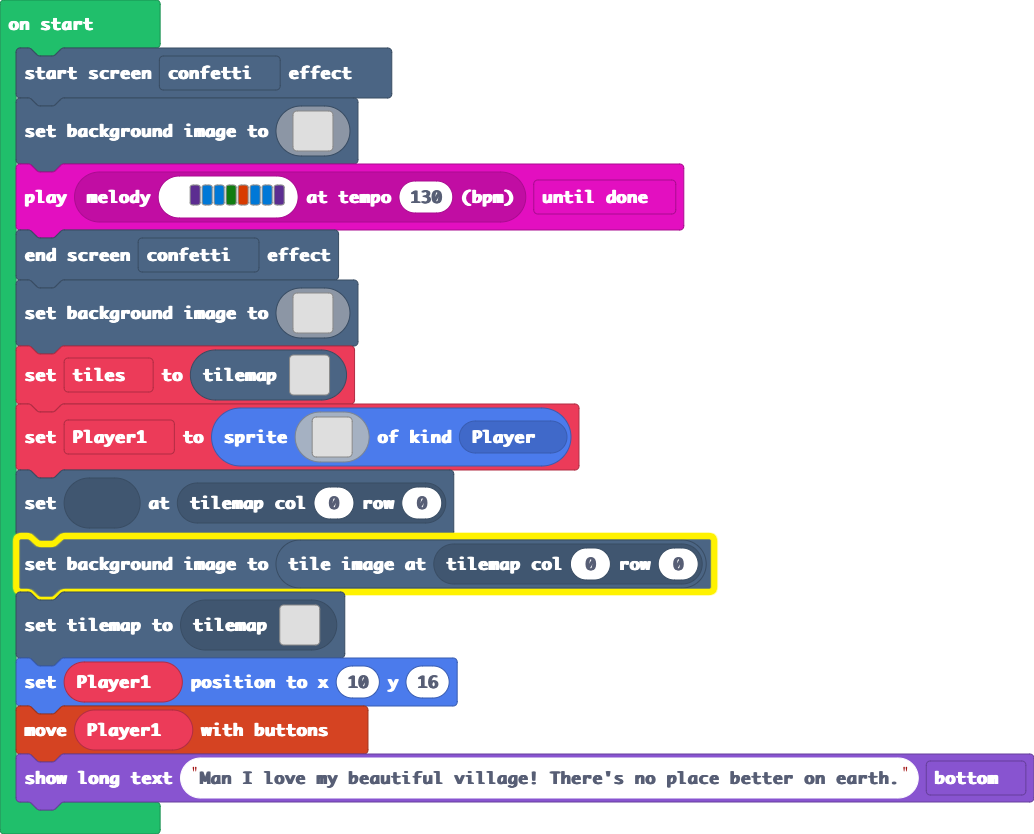
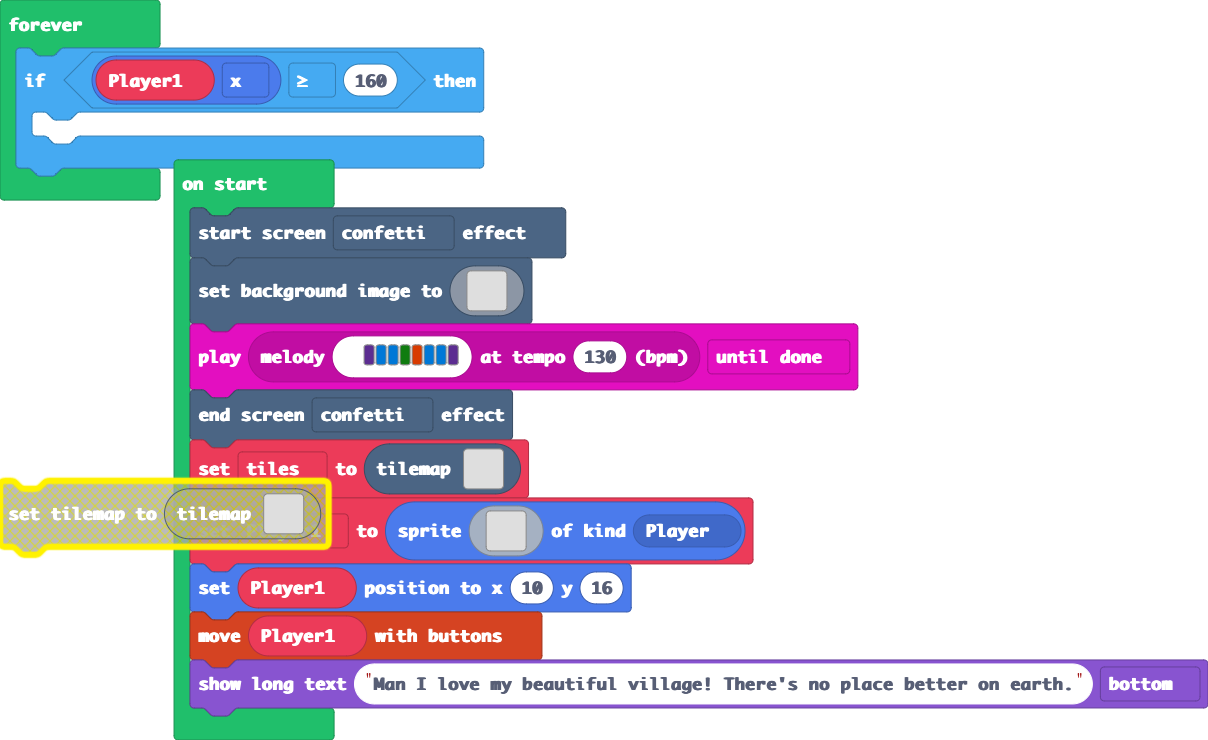
Update main.blocks, main.ts, tilemap.g.jres, tilemap.g.ts, images.g.jres, images.g.ts

diff --git a/tilemap.g.ts b/tilemap.g.ts
@@ -2,6 +2,8 @@
 namespace myTiles {
     //% fixedInstance jres blockIdentity=images._tile
     export const transparency16 = image.ofBuffer(hex``);
+    //% fixedInstance jres blockIdentity=images._tile
+    export const tile1 = image.ofBuffer(hex``);
 
     helpers._registerFactory("tilemap", function(name: string) {
         switch(helpers.stringTrim(name)) {
@@ -100,6 +102,120 @@ namespace myTiles {
 . . . . . . . . . . . . . . . . 
 . . . . . . . . . . . . . . . . 
 `, [myTiles.transparency16], TileScale.Sixteen);
+            case "level6":
+            case "level6":return tiles.createTilemap(hex`1000100001010101010101010101010101010101010101010101010101010101010101010101010101010101010101010101010101010101010101010101010101010101010101010101010101010101010101010101010101010101010101010101010101010101010101010101010101010101010101010101010101010101010101010101010101010101010101010101010101010101010101010101010101010101010101010101010101010101010101010101010101010101010101010101010101010101010101010101010101010101010101010101010101010101010101010101010101010101010101010101010101010101010101010101010101010101`, img`
+. . . . . . . . . . . . . . . . 
+. . . . . . . . . . . . . . . . 
+. . . . . . . . . . . . . . . . 
+. . . . . . . . . . . . . . . . 
+. . . . . . . . . . . . . . . . 
+. . . . . . . . . . . . . . . . 
+. . . . . . . . . . . . . . . . 
+. . . . . . . . . . . . . . . . 
+. . . . . . . . . . . . . . . . 
+. . . . . . . . . . . . . . . . 
+. . . . . . . . . . . . . . . . 
+. . . . . . . . . . . . . . . . 
+. . . . . . . . . . . . . . . . 
+. . . . . . . . . . . . . . . . 
+. . . . . . . . . . . . . . . . 
+. . . . . . . . . . . . . . . . 
+`, [myTiles.transparency16,sprites.castle.tileGrass2,myTiles.tile1], TileScale.Sixteen);
+            case "level7":
+            case "level7":return tiles.createTilemap(hex`1000100000000000000000000000000000000000000000000000000000000000000000000000000000000000000000000000000000000000000000000000000000000000000000000000000000000000000000000000000000000000000000000000000000000000000000000000000000000000000000000000000000000000000000000000000000000000000000000000000000000000000000000000000000000000000000000000000000000000000000000000000000000000000000000000000000000000000000000000000000000000000000000000000000000000000000000000000000000000000000000000000000000000000000000000000000000000`, img`
+. . . . . . . . . . . . . . . . 
+. . . . . . . . . . . . . . . . 
+. . . . . . . . . . . . . . . . 
+. . . . . . . . . . . . . . . . 
+. . . . . . . . . . . . . . . . 
+. . . . . . . . . . . . . . . . 
+. . . . . . . . . . . . . . . . 
+. . . . . . . . . . . . . . . . 
+. . . . . . . . . . . . . . . . 
+. . . . . . . . . . . . . . . . 
+. . . . . . . . . . . . . . . . 
+. . . . . . . . . . . . . . . . 
+. . . . . . . . . . . . . . . . 
+. . . . . . . . . . . . . . . . 
+. . . . . . . . . . . . . . . . 
+. . . . . . . . . . . . . . . . 
+`, [myTiles.transparency16], TileScale.Sixteen);
+            case "level8":
+            case "level8":return tiles.createTilemap(hex`1000100000000000000000000000000000000000000000000000000000000000000000000000000000000000000000000000000000000000000000000000000000000000000000000000000000000000000000000000000000000000000000000000000000000000000000000000000000000000000000000000000000000000000000000000000000000000000000000000000000000000000000000000000000000000000000000000000000000000000000000000000000000000000000000000000000000000000000000000000000000000000000000000000000000000000000000000000000000000000000000000000000000000000000000000000000000000`, img`
+. . . . . . . . . . . . . . . . 
+. . . . . . . . . . . . . . . . 
+. . . . . . . . . . . . . . . . 
+. . . . . . . . . . . . . . . . 
+. . . . . . . . . . . . . . . . 
+. . . . . . . . . . . . . . . . 
+. . . . . . . . . . . . . . . . 
+. . . . . . . . . . . . . . . . 
+. . . . . . . . . . . . . . . . 
+. . . . . . . . . . . . . . . . 
+. . . . . . . . . . . . . . . . 
+. . . . . . . . . . . . . . . . 
+. . . . . . . . . . . . . . . . 
+. . . . . . . . . . . . . . . . 
+. . . . . . . . . . . . . . . . 
+. . . . . . . . . . . . . . . . 
+`, [myTiles.transparency16], TileScale.Sixteen);
+            case "level9":
+            case "level9":return tiles.createTilemap(hex`1000100000000000000000000000000000000000000000000000000000000000000000000000000000000000000000000000000000000000000000000000000000000000000000000000000000000000000000000000000000000000000000000000000000000000000000000000000000000000000000000000000000000000000000000000000000000000000000000000000000000000000000000000000000000000000000000000000000000000000000000000000000000000000000000000000000000000000000000000000000000000000000000000000000000000000000000000000000000000000000000000000000000000000000000000000000000000`, img`
+. . . . . . . . . . . . . . . . 
+. . . . . . . . . . . . . . . . 
+. . . . . . . . . . . . . . . . 
+. . . . . . . . . . . . . . . . 
+. . . . . . . . . . . . . . . . 
+. . . . . . . . . . . . . . . . 
+. . . . . . . . . . . . . . . . 
+. . . . . . . . . . . . . . . . 
+. . . . . . . . . . . . . . . . 
+. . . . . . . . . . . . . . . . 
+. . . . . . . . . . . . . . . . 
+. . . . . . . . . . . . . . . . 
+. . . . . . . . . . . . . . . . 
+. . . . . . . . . . . . . . . . 
+. . . . . . . . . . . . . . . . 
+. . . . . . . . . . . . . . . . 
+`, [myTiles.transparency16], TileScale.Sixteen);
+            case "level10":
+            case "level10":return tiles.createTilemap(hex`1000100000000000000000000000000000000000000000000000000000000000000000000000000000000000000000000000000000000000000000000000000000000000000000000000000000000000000000000000000000000000000000000000000000000000000000000000000000000000000000000000000000000000000000000000000000000000000000000000000000000000000000000000000000000000000000000000000000000000000000000000000000000000000000000000000000000000000000000000000000000000000000000000000000000000000000000000000000000000000000000000000000000000000000000000000000000000`, img`
+. . . . . . . . . . . . . . . . 
+. . . . . . . . . . . . . . . . 
+. . . . . . . . . . . . . . . . 
+. . . . . . . . . . . . . . . . 
+. . . . . . . . . . . . . . . . 
+. . . . . . . . . . . . . . . . 
+. . . . . . . . . . . . . . . . 
+. . . . . . . . . . . . . . . . 
+. . . . . . . . . . . . . . . . 
+. . . . . . . . . . . . . . . . 
+. . . . . . . . . . . . . . . . 
+. . . . . . . . . . . . . . . . 
+. . . . . . . . . . . . . . . . 
+. . . . . . . . . . . . . . . . 
+. . . . . . . . . . . . . . . . 
+. . . . . . . . . . . . . . . . 
+`, [myTiles.transparency16], TileScale.Sixteen);
+            case "level11":
+            case "level11":return tiles.createTilemap(hex`1000100000000000000000000000000000000000000000000000000000000000000000000000000000000000000000000000000000000000000000000000000000000000000000000000000000000000000000000000000000000000000000000000000000000000000000000000000000000000000000000000000000000000000000000000000000000000000000000000000000000000000000000000000000000000000000000000000000000000000000000000000000000000000000000000000000000000000000000000000000000000000000000000000000000000000000000000000000000000000000000000000000000000000000000000000000000000`, img`
+. . . . . . . . . . . . . . . . 
+. . . . . . . . . . . . . . . . 
+. . . . . . . . . . . . . . . . 
+. . . . . . . . . . . . . . . . 
+. . . . . . . . . . . . . . . . 
+. . . . . . . . . . . . . . . . 
+. . . . . . . . . . . . . . . . 
+. . . . . . . . . . . . . . . . 
+. . . . . . . . . . . . . . . . 
+. . . . . . . . . . . . . . . . 
+. . . . . . . . . . . . . . . . 
+. . . . . . . . . . . . . . . . 
+. . . . . . . . . . . . . . . . 
+. . . . . . . . . . . . . . . . 
+. . . . . . . . . . . . . . . . 
+. . . . . . . . . . . . . . . . 
+`, [myTiles.transparency16], TileScale.Sixteen);
         }
         return null;
     })
@@ -107,6 +223,8 @@ namespace myTiles {
     helpers._registerFactory("tile", function(name: string) {
         switch(helpers.stringTrim(name)) {
             case "transparency16":return transparency16;
+            case "myTile":
+            case "tile1":return tile1;
         }
         return null;
     })

diff --git a/main.ts b/main.ts
@@ -123,24 +123,6 @@ scene.setBackgroundImage(img`
     `)
 music.play(music.stringPlayable("D E E G B E E D ", 130), music.PlaybackMode.UntilDone)
 effects.confetti.endScreenEffect()
-scene.setBackgroundImage(img`
-    . . . . . . f f f f . . . . . . 
-    . . . . f f f 2 2 f f f . . . . 
-    . . . f f f 2 2 2 2 f f f . . . 
-    . . f f f e e e e e e f f f . . 
-    . . f f e 2 2 2 2 2 2 e e f . . 
-    . . f e 2 f f f f f f 2 e f . . 
-    . . f f f f e e e e f f f f . . 
-    . f f e f b f 4 4 f b f e f f . 
-    . f e e 4 1 f d d f 1 4 e e f . 
-    . . f e e d d d d d d e e f . . 
-    . . . f e e 4 4 4 4 e e f . . . 
-    . . e 4 f 2 2 2 2 2 2 f 4 e . . 
-    . . 4 d f 2 2 2 2 2 2 f d 4 . . 
-    . . 4 4 f 4 4 5 5 4 4 f 4 4 . . 
-    . . . . . f f f f f f . . . . . 
-    . . . . . f f . . f f . . . . . 
-    `)
 let tiles2 = tilemap`level3`
 let Player1 = sprites.create(img`
     . . . . . . f f f f . . . . . . 
@@ -160,9 +142,11 @@ let Player1 = sprites.create(img`
     . . . . . f f f f f f . . . . . 
     . . . . . f f . . f f . . . . . 
     `, SpriteKind.Player)
-tiles.setTileAt(tiles.getTileLocation(0, 0), sprites.castle.tileGrass2)
-scene.setBackgroundImage(tiles.tileImageAtLocation(tiles.getTileLocation(0, 0)))
-tiles.setCurrentTilemap(tilemap`level2`)
 Player1.setPosition(10, 16)
 controller.moveSprite(Player1)
 game.showLongText("Man I love my beautiful village! There's no place better on earth.", DialogLayout.Bottom)
+forever(function () {
+    if (Player1.x >= 160) {
+    	
+    }
+})

diff --git a/images.g.ts b/images.g.ts
@@ -4,7 +4,7 @@ namespace myImages {
     helpers._registerFactory("image", function(name: string) {
         switch(helpers.stringTrim(name)) {
             case "image1":
-            case "Village":return img`
+            case "Village2":return img`
[3 lines of base64/hex data omitted]
